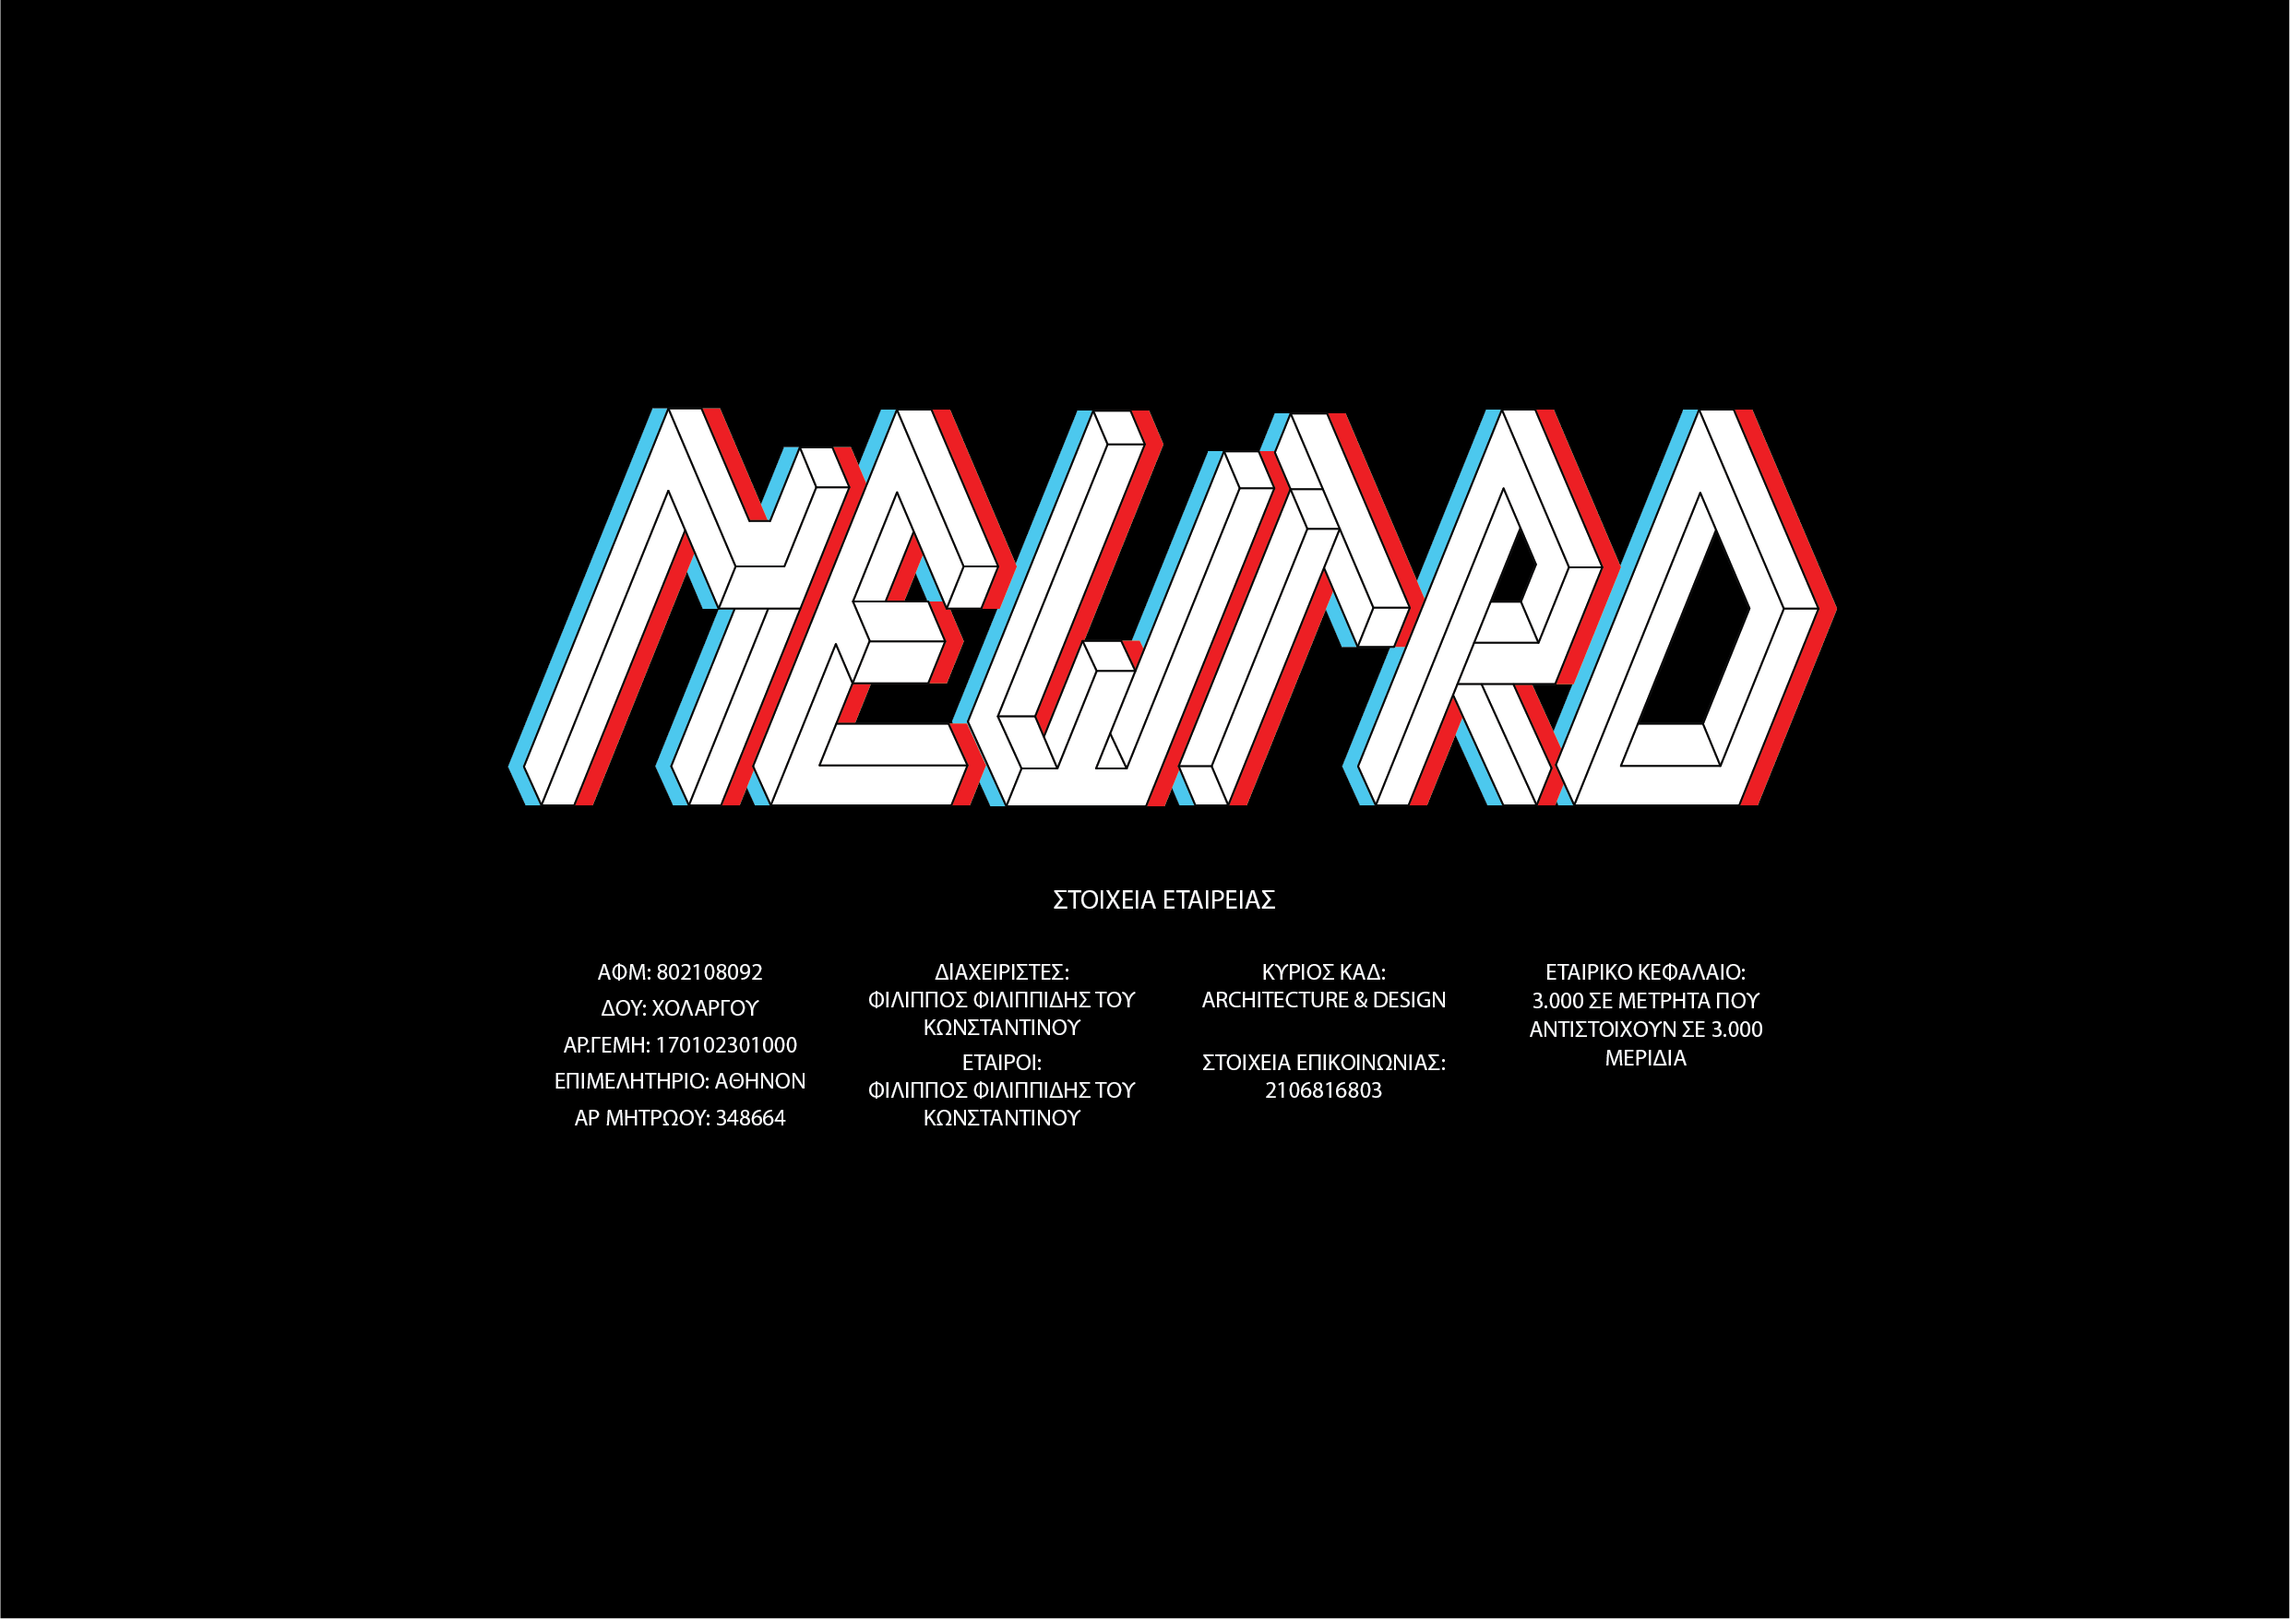
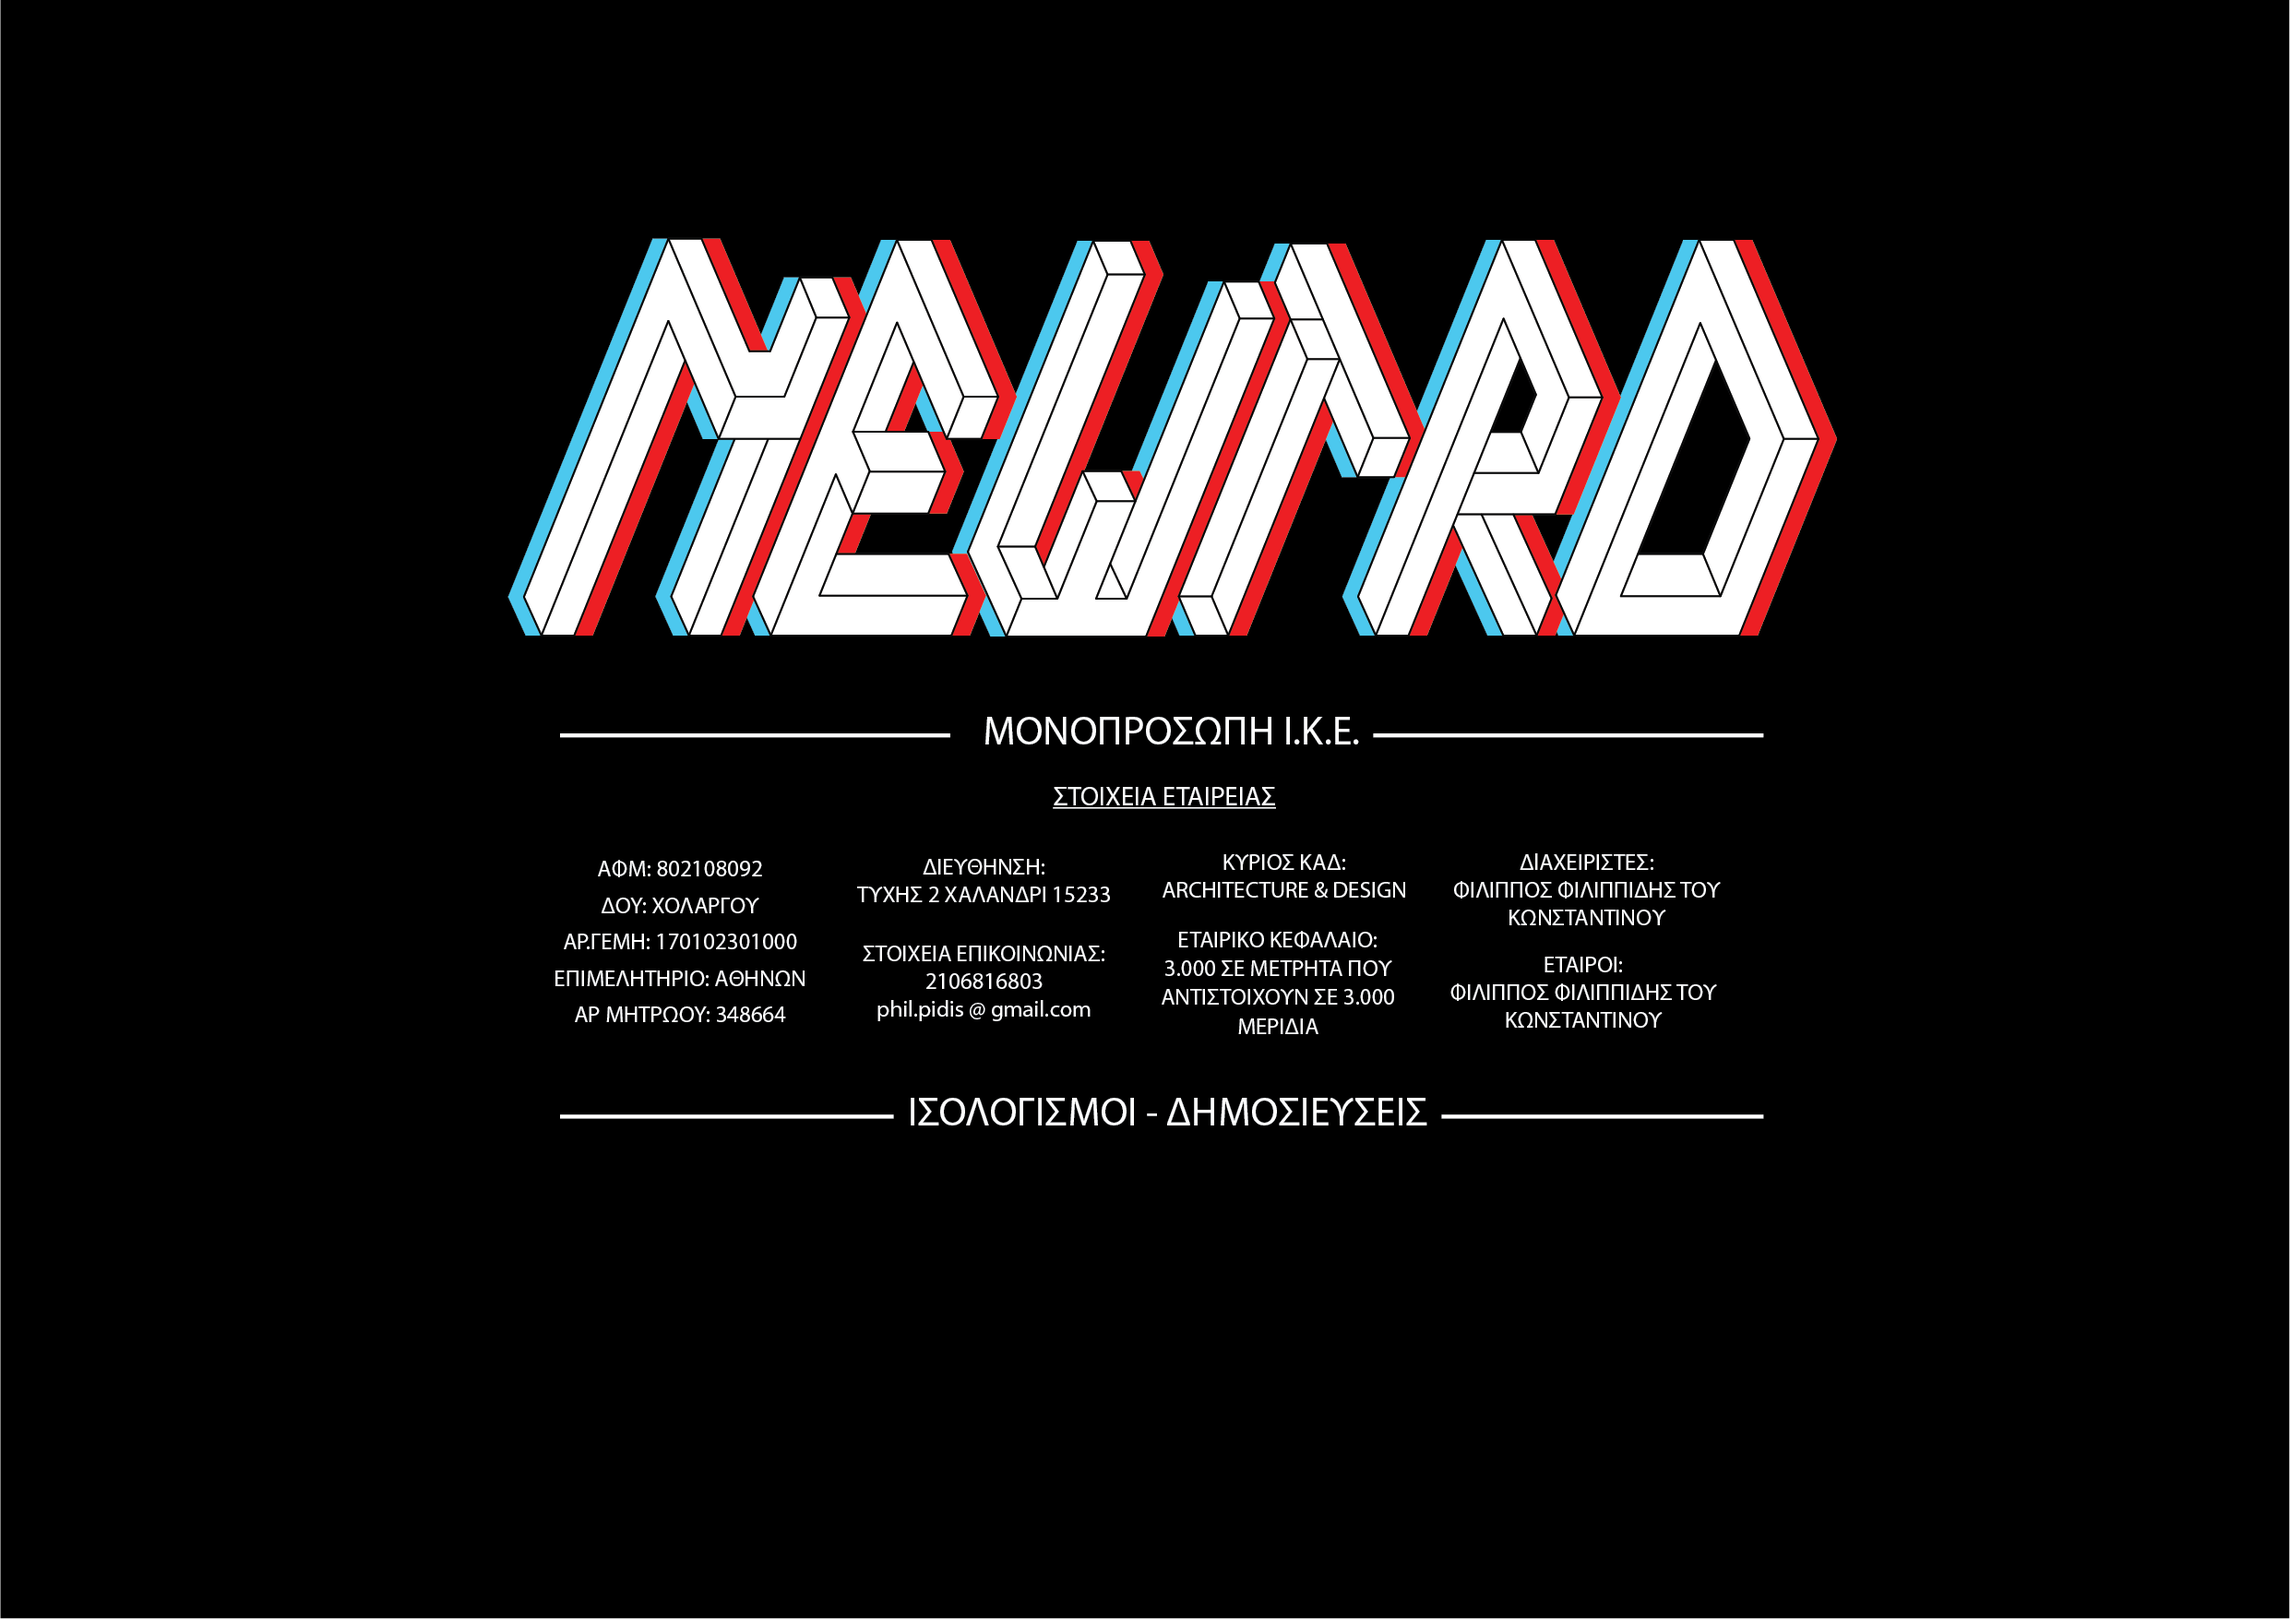
final commit

Changed region(s): [[0.2172, 0.1231, 0.8066, 0.7077]]

diff --git a/index.html b/index.html
@@ -3,7 +3,7 @@
 <head>
     <meta charset="UTF-8">
     <meta name="viewport" content="width=device-width, initial-scale=1.0">
-    <title>- Newtro -</title>
+    <title>Newtro I.K.E.</title>
     <link rel="stylesheet" href="css/normalize.css">
     <link rel="stylesheet" href="/css/styles.css">
 </head>
